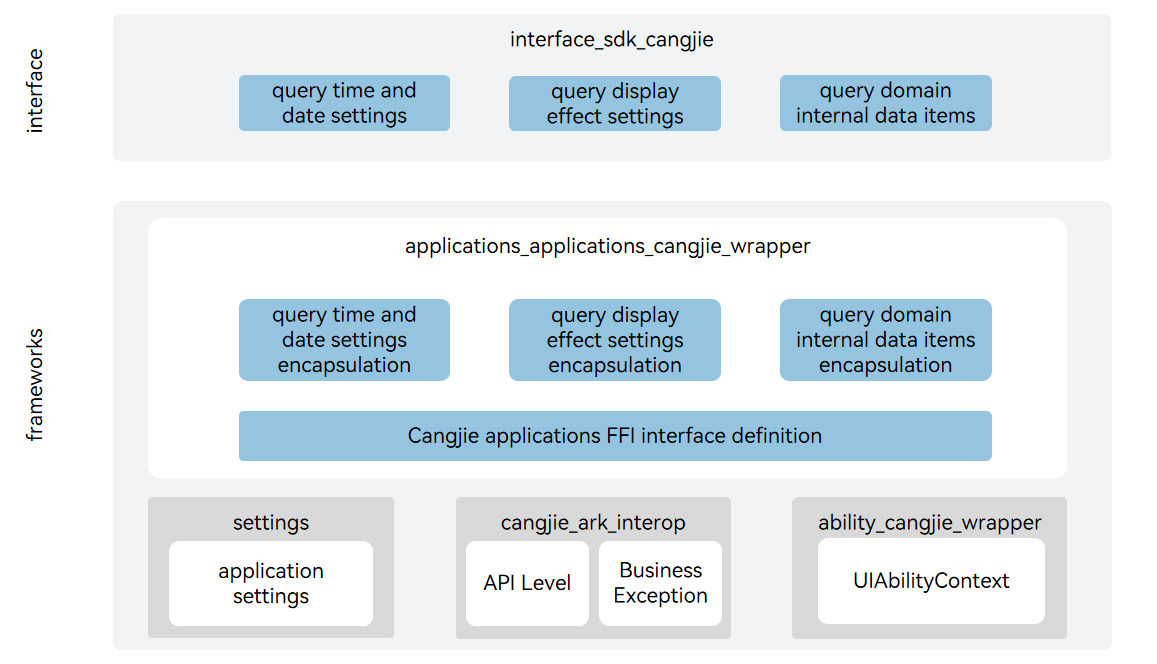
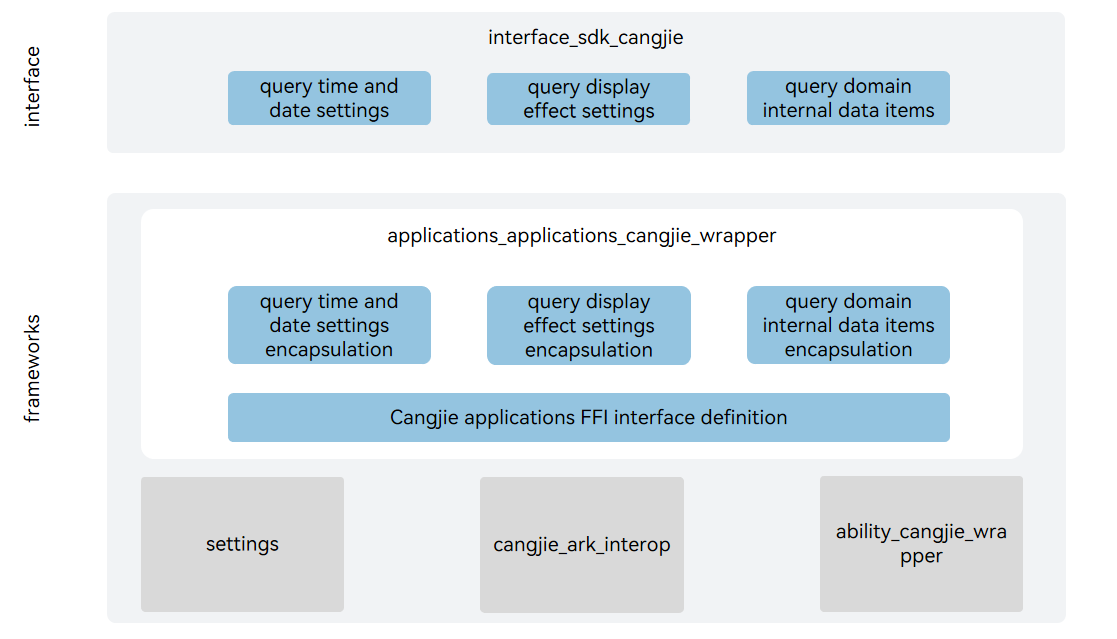
fix readme

diff --git a/README_zh.md b/README_zh.md
@@ -1,8 +1,8 @@
-# 应用仓颉接口
+# 应用仓颉封装
 
 ## 简介
 
-应用仓颉接口是在 OpenHarmony 上基于应用子系统能力之上封装的仓颉API。当前仓颉只支持设置应用，设置应用是 OpenHarmony 系统中预置的系统应用，为用户提供设置系统属性的交互界面，例如设置系统时间，屏幕亮度等系统属性，当前设置应用仓颉接口支持standard设备。
+应用仓颉封装是 OpenHarmony 上面向开发者提供使用仓颉语言进行应用开发时的应用相关能力。当前仓颉只支持设置应用，设置应用是 OpenHarmony 系统中预置的系统应用，为用户提供设置系统属性的交互界面，例如设置系统时间，屏幕亮度等系统属性，当前设置应用仓颉接口支持standard设备。
 
 ## 系统架构
 
@@ -11,13 +11,28 @@
 !["应用仓颉架构图"](figures/application_cangjie_wrapper_architecture.png )
 
 如架构图所示：
+接口层
 
-- 查询时间和日期：提供获取当前设置的时间和日期数据项的接口。
-- 查询显示效果：提供获取当前设置的显示效果数据项的接口。
-- 查询域名数据项：提供获取指定域名数据项的接口，包含设备属性共享域和用户属性域。
+- 查询时间和日期：面向开发者提供获取当前设置的时间和日期数据项的能力。
+- 查询显示效果：面向开发者提供获取当前设置的显示效果数据项的能力。
+- 查询域名数据项：面向开发者提供获取指定域名数据项的能力，包含设备属性共享域和用户属性域。
+
+框架层
+
+- 查询时间和日期功能封装：基于底层settings部件提供的时间和日期数据项查询能力，实现获取当前设置的时间和日期数据项的功能。
+
+- 查询显示效果功能封装：基于底层settings部件提供的显示效果查询能力，实现获取当前设置的显示效果数据项的功能。
+
+- 查询域名数据项功能封装：基于底层settings部件提供的基于域名的数据项查询能力，实现获取获取指定域名数据项的功能。
+
 - 仓颉应用FFI接口定义：负责定义被仓颉语言调用的C语言互操作接口，用于实现仓颉设置应用能力。
+
+架构图中的依赖部件引入说明：
+
 - settings：负责提供设置应用基础功能，封装C语言接口提供给仓颉进行互操作。
+
 - cangjie_ark_interop：负责提供仓颉注解类定义，用于对API进行标注，以及提供抛向用户的BusinessException异常类定义。
+
 - ability_cangjie_wrapper：负责提供Ability或Application的上下文的基础能力，包括访问特定应用程序的资源等。
 
 ## 目录
@@ -35,22 +50,24 @@ applications/standard/applications_cangjie_wrapper
 
 ## 使用说明
 
-- 提供以下设置应用功能：
-  
-  - 查询时间和日期设置
-  - 查询显示效果设置
-  - 查询指定域名的相关设置
+提供以下设置应用功能：
 
-- 与ArkTS提供的API能力相比，暂不支持以下功能：
-  
-  - 设置时间和日期
-  - 设置显示效果
-  - 注册/注销 域名指定数据项观察者
-  - 打开网络管理设置页面
-  - 启用/禁用飞行模式
-  - 检查应用是否能够以悬浮窗形式显示
+- 查询时间和日期设置
+- 查询显示效果设置
+- 查询指定域名的相关设置
 
-- 设置应用相关API请参见[设置应用API参考](https://gitcode.com/openharmony-sig/arkcompiler_cangjie_ark_interop/blob/master/doc/API_Reference/source_zh_cn/apis/BasicServicesKit/cj-apis-settings.md)。
+设置应用相关API请参见[设置应用API参考](https://gitcode.com/openharmony-sig/arkcompiler_cangjie_ark_interop/blob/master/doc/API_Reference/source_zh_cn/apis/BasicServicesKit/cj-apis-settings.md)。
+
+## 约束
+
+与ArkTS提供的API能力相比，暂不支持以下功能：
+
+- 设置时间和日期
+- 设置显示效果
+- 注册/注销 域名指定数据项观察者
+- 打开网络管理设置页面
+- 启用/禁用飞行模式
+- 检查应用是否能够以悬浮窗形式显示
 
 ## 参与贡献
 
@@ -58,7 +75,7 @@ applications/standard/applications_cangjie_wrapper
 
 ## 相关仓
 
-[applications_settings](https://gitee.com/openharmony/applications_settings/blob/master/README_zh.md)
+[applications_settings](https://gitcode.com/openharmony/applications_settings/blob/master/README_zh.md)
 
 [cangjie_ark_interop](https://gitcode.com/openharmony-sig/arkcompiler_cangjie_ark_interop/blob/master/README_zh.md)
 
